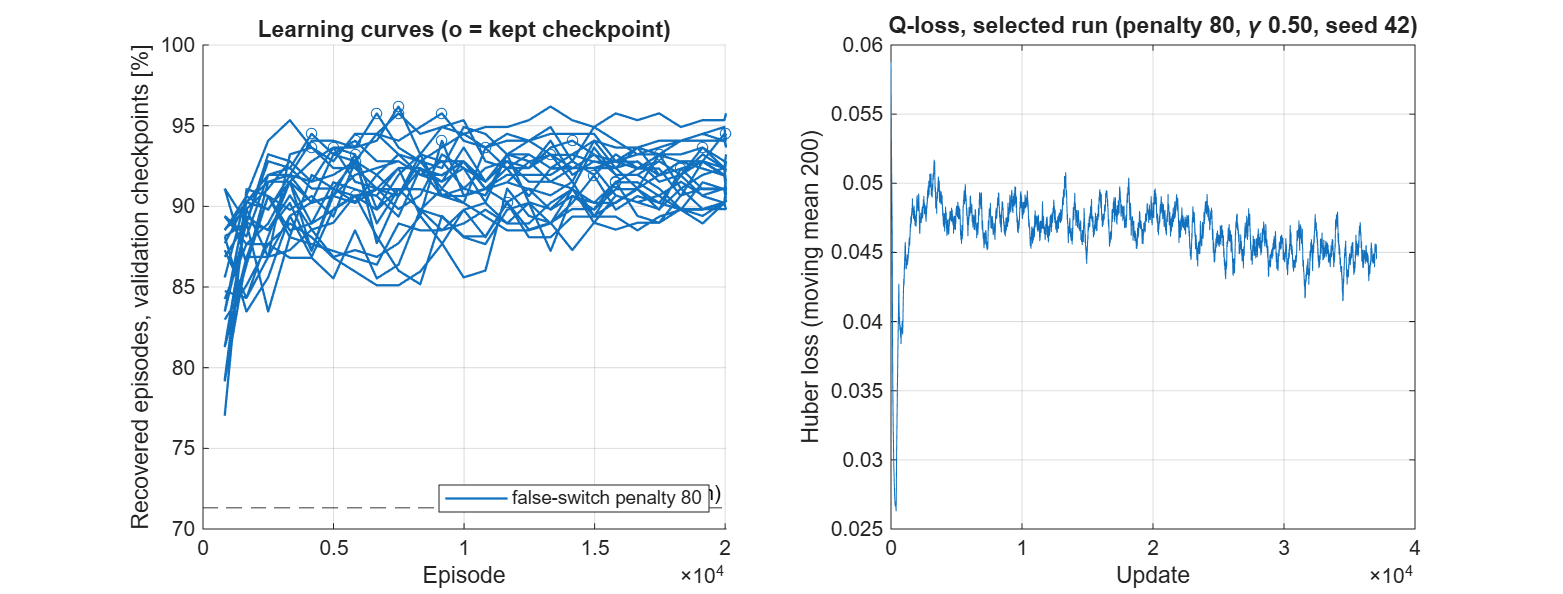
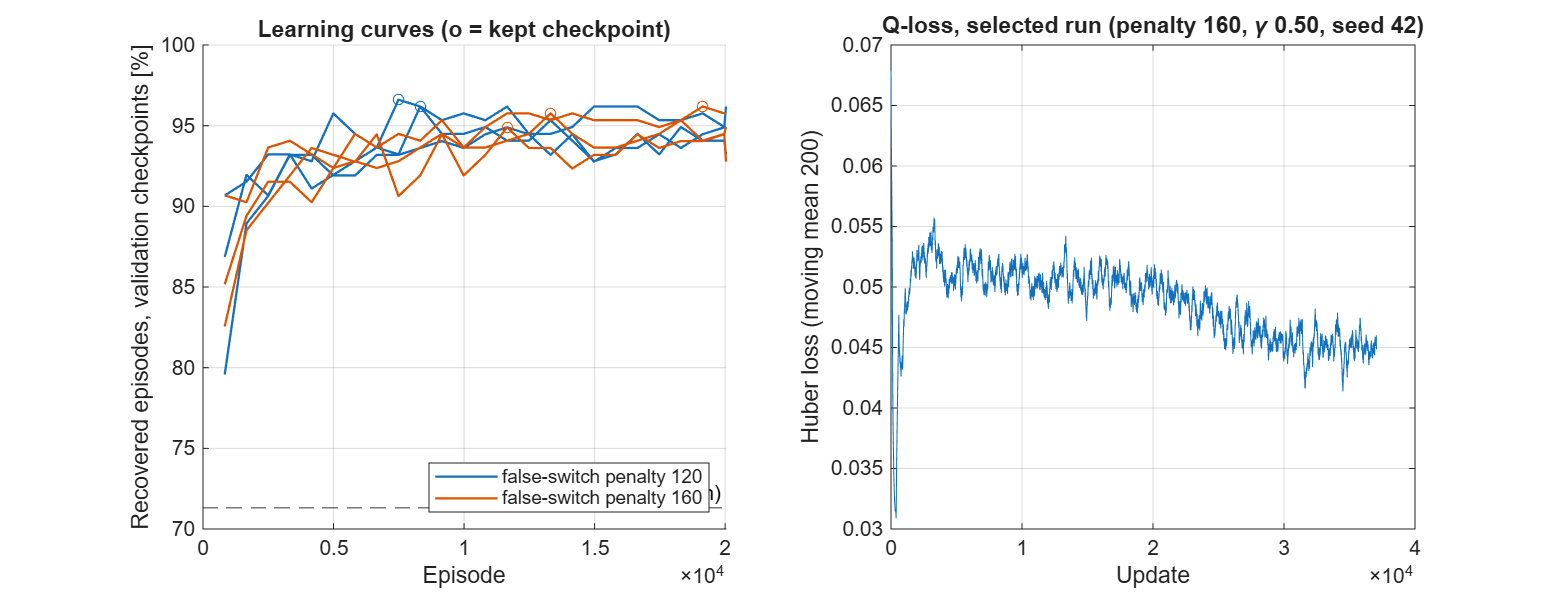
D67 adopted as a documented exception; fourth reading on new test flights
Penalty 160 with running costs x0.5 meets the false-alarm bound (15 of 600)
and raises every aggregate recovery measure; the weakest-threat condition
falls short by two path-loss episodes in the KPI 4 grouping, and the user
chose to adopt with the exception recorded. Test pools move to seed blocks
8 (policy) and 9 (clean). Threat gallery legend wraps long configurations.

diff --git a/code/decision/build_clean_test_pools.m b/code/decision/build_clean_test_pools.m
@@ -4,7 +4,7 @@
 % every configuration (common random numbers, as in build_policy_pools.m), with
 % the same detector, frames per geometry and features (pool_cell.m, in parallel).
 % Two sets, chosen by CLEAN_SET (default 'test'):
-%   'test'  seed block 7 -> data/clean_test_pools.mat: evaluate_policies.m runs
+%   'test'  seed block 9 -> data/clean_test_pools.mat: evaluate_policies.m runs
 %           one clean episode per geometry (600 independent episodes) and KPI 6
 %           is computed over them (D51)
 %   'val'   seed block 4 -> data/clean_val_pools.mat: train_dqn.m checks the false
@@ -19,7 +19,7 @@ fprintf('=== Clean-link pools over many geometries (D51, D52, D59) ===\n\n');
 %% 1. Configuration
 if ~exist('CLEAN_SET', 'var'), CLEAN_SET = 'test'; end
 switch CLEAN_SET
-    case 'test', SP = 7; f_out = 'data/clean_test_pools.mat';
+    case 'test', SP = 9; f_out = 'data/clean_test_pools.mat';
     case 'val',  SP = 4; f_out = 'data/clean_val_pools.mat';
     otherwise, error('build_clean_test_pools: CLEAN_SET must be ''test'' or ''val''');
 end

diff --git a/code/decision/pool_seed.m b/code/decision/pool_seed.m
@@ -4,10 +4,10 @@ function [seed, v_kmh] = pool_seed(sc, s, sp, r, vrange)
 %       threat cell fly the same geometries, so an episode's frames before and
 %       after the onset come from one flight)
 %   s   Eb/N0 index
-%   sp  seed block: 1 train, 5 validation, 6 test pools (build_policy_pools.m);
-%       7 clean test and 4 clean validation geometries (build_clean_test_pools.m).
-%       Blocks 2 and 3 hold the test flights of the first two test readings (D64)
-%       and are not used again.
+%   sp  seed block: 1 train, 5 validation, 8 test pools (build_policy_pools.m);
+%       9 clean test and 4 clean validation geometries (build_clean_test_pools.m).
+%       Blocks 2, 3, 6 and 7 hold the test flights of earlier test readings (D64,
+%       D67) and are not used again.
 %   r   geometry (at most 99 per block)
 %   The seed is shared by every configuration (common random numbers); the speed
 %   is the first draw of the seed's stream, uniform in vrange [km/h].

diff --git a/code/evaluation/threat_gallery.m b/code/evaluation/threat_gallery.m
@@ -62,7 +62,8 @@ for t = 1:numel(THREATS)
     yline(ax, max(2 * mean(clean.ber, 'omitnan'), fl), '--k', '2x clean');
     set(ax, 'YScale', 'log'); ylim(ax, [fl * 0.8 1]); xlim(ax, [1 NF]);
     xlabel(ax, sprintf('Frame (%.2f ms each)', 1000 * p0.frame_duration)); ylabel(ax, 'BER');
-    legend(ax, {'clean link', 'no response', strrep(act, '_', ' ')}, 'Location', 'southoutside', 'Orientation', 'horizontal');
+    legend(ax, {'clean link', 'no response', strrep(strrep(act, '_', ' '), '+', ' + ')}, 'Location', 'southoutside', ...
+        'NumColumns', 2);                                        % long configurations wrap instead of being cut
     title(ax, sprintf('(c) Response: %s', src));
     title(tl, sprintf('%s, nominal severity, E_b/N_0 %d dB, %d km/h', strrep(th, '_', ' '), EBNO, V_KMH));
     exportgraphics(fig, fullfile(OUT, [th '.png']), 'Resolution', 200); close(fig);

diff --git a/code/decision/build_policy_pools.m b/code/decision/build_policy_pools.m
@@ -38,7 +38,7 @@ COMBOS  = {'jamming+path_loss', 'noise_burst+antenna_fault', 'sweeping_jammer+pa
            'benign_interference+noise_burst'};
 EBNO   = 0:2:10;
 NGEO   = [6 4 8];                % geometries per (cell, Eb/N0): train, validation, test
-BLOCK  = [1 5 6];                % pool_seed.m block of each split (pool_seed.m lists every block)
+BLOCK  = [1 5 8];                % pool_seed.m block of each split (pool_seed.m lists every block)
 SPLITS = {'train', 'val', 'test'};
 N_WORKERS = 6;
 opt = struct('F_SUB', 20, 'tw', 10, 'delay_bits', 20);

diff --git a/docs/DECISIONS.md b/docs/DECISIONS.md
@@ -575,3 +575,4 @@ while giving deterministic mathematical control under the hood.
 **Why:** D66 measured the trade-off in the training reward: halving the running costs lifts validation recovery by about 3 points and the weakest threat by 2-3 points, and roughly doubles the clean-link false alarms. The false-switch penalty is the reward term that prices an action on a clean link, so it is the direct counterweight; between D66's variants a higher penalty (with the switching cost restored) cut false alarms from 48-89 to 27-29 of 600.
 **Decision:** training reward only: running costs x0.5, switching cost x1, false-switch penalty 120 and 160. Monitor, drop threshold and discount factor as in the D64 selection (class_drop 3/3, 3 dB, gamma 0.5), 3 seeds each, selection rule unchanged.
 **Adoption rule, fixed before the run:** as in D66, against the D64 agent. This is the last round on the reward weights: if no run is adopted, the third reading stays final.
+**Outcome (2026-09-29):** false alarms on the independent clean validation geometries: penalty 120, 22 / 21 / 32 of 600; penalty 160, 15 / 22 / 21. Selected: penalty 160, seed 42 (validation 96.6%, weakest threat path loss 88.7%, 15 of 600, normalized goodput 1.189; D64 selection 94.4%, 87.9%, 15 of 600, 1.081). Adoption check against the D64 agent (`diag_failure_modes.m`, DQN + escalation): static 95.2 -> 96.4%, follower 93.5 -> 95.5%, immediate follower 90.0 -> 95.1%; no threat lower by more than 2 episodes (path loss 114 -> 112 of 124, reactive jamming -1; jamming +11, spoofing + noise burst +7, spoofing +6); goodput higher; false alarms within the bound. The weakest threat is higher on the full validation set of `train_dqn.m` (87.9 -> 88.7%) but not in the KPI 4 grouping of `diag_failure_modes.m` (90.6%, noise burst + antenna fault -> 90.3%, path loss), so the rule as written is not met. Adi chose to adopt D67 as a documented exception, as in D64: every aggregate measure improved at equal false alarms, and the one shortfall is the two path-loss episodes that the same rule tolerates per threat. New test flights (test block 8, clean test block 9) and a fourth reading, which is the final result whatever it shows. The D66 runs and the false-alarm diagnostic (`diag_false_alarms.m`: most false switches come from path-loss misreads; 4-of-4 confirmation was measured as the alternative and not needed) are kept for the record.
